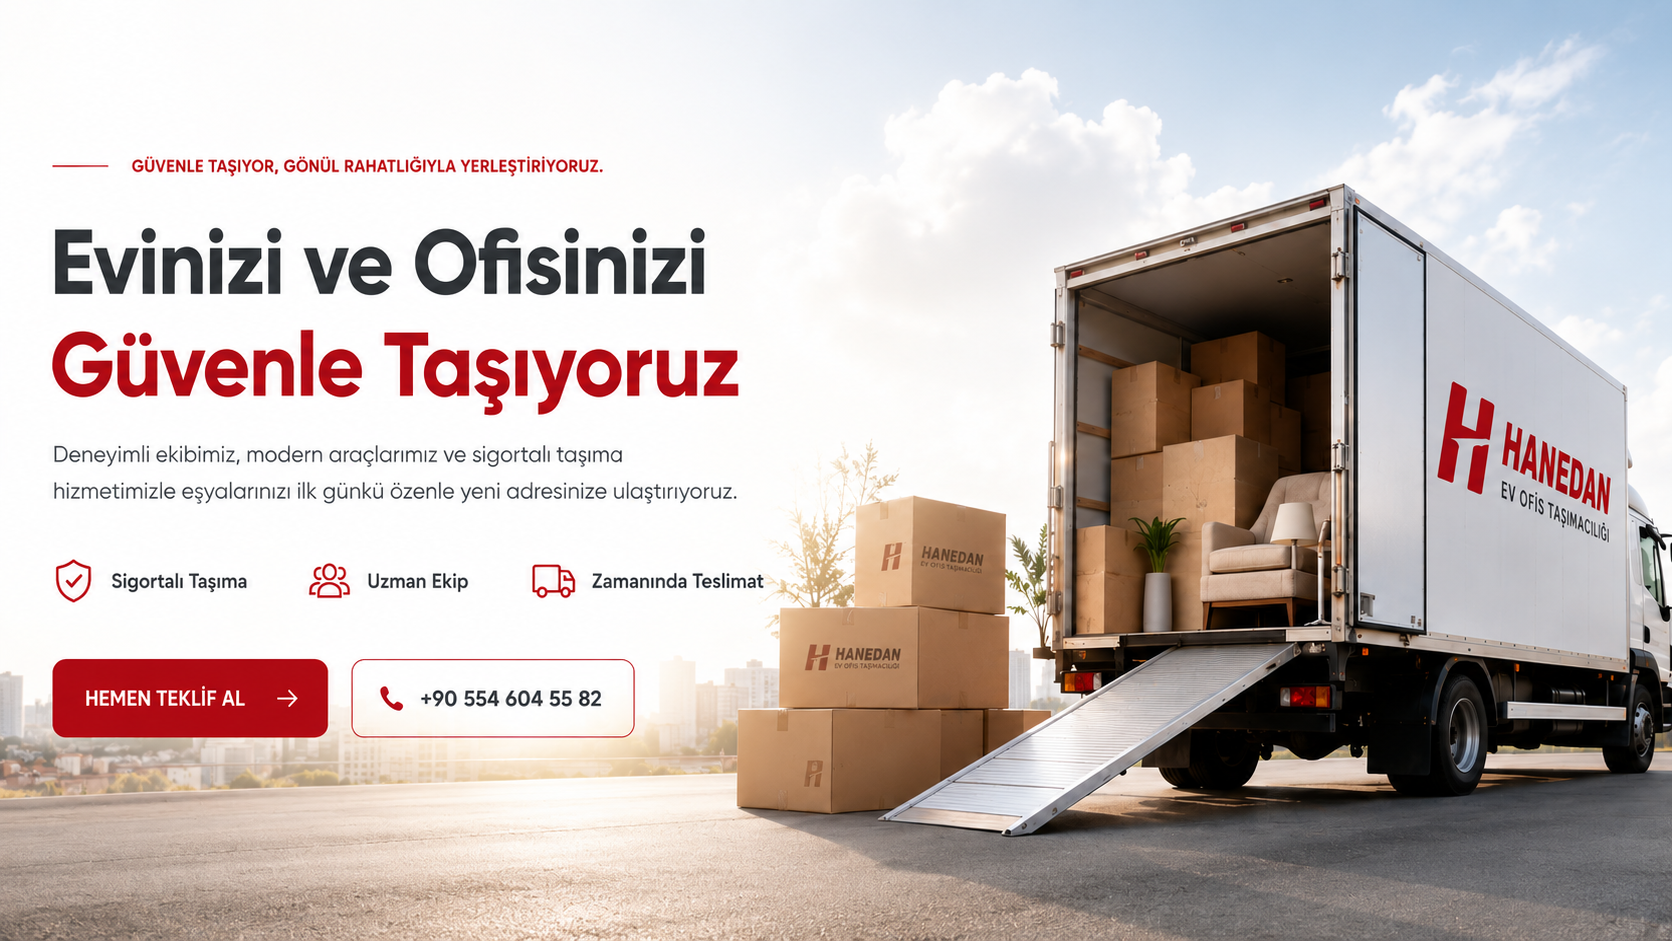
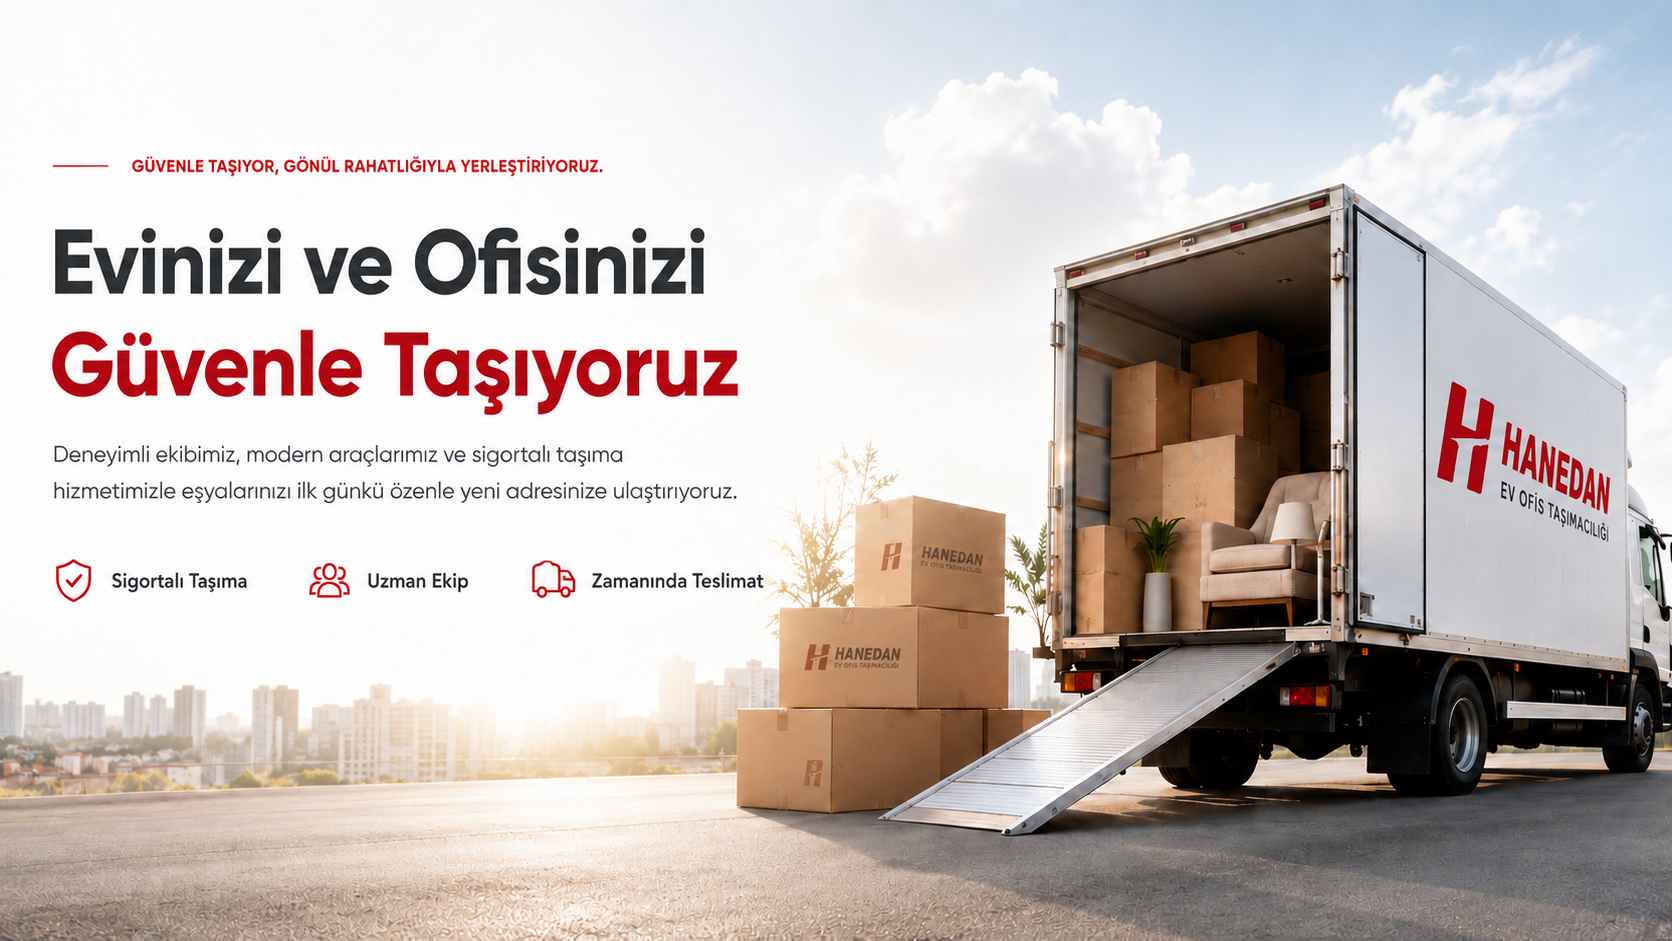
Update website files

diff --git a/generate-site.js b/generate-site.js
@@ -535,6 +535,13 @@ function homePage() {
     ${heroSlidesMarkup}
     <div class="hero-dots" aria-label="Ana görsel seçimi">${heroSlides.map((_, index) => `<button type="button" class="${index === 0 ? "is-active" : ""}" aria-label="${index + 1}. görsele geç"></button>`).join("")}</div>
   </section>
+  <section class="hero-quick-actions" aria-label="Hızlı iletişim">
+    <div class="container">
+      <a class="btn btn-primary" href="${waLink("Merhaba, Kayseri Hanedan Nakliyat web sitesinden teklif almak istiyorum.")}" target="_blank" rel="noopener">Hemen Teklif Al</a>
+      <a class="btn btn-light phone-action" href="tel:${primaryTel}">${primaryPhone}</a>
+      <a class="btn btn-light phone-action" href="tel:${secondaryTel}">${secondaryPhone}</a>
+    </div>
+  </section>
 
   <section class="section services-showcase pattern-bg">
     <div class="container">
@@ -1027,7 +1034,7 @@ body.menu-open { overflow: hidden; }
 .hero picture, .hero picture img, .hero-overlay { position: absolute; inset: 0; width: 100%; height: 100%; }
 .hero picture img { object-fit: cover; object-position: center; }
 .hero-overlay { background: linear-gradient(90deg, rgba(0,0,0,.72), rgba(0,0,0,.34) 52%, rgba(0,0,0,.12)); }
-.hero-carousel { width: 100%; min-height: 0; height: auto; aspect-ratio: 1680 / 944; max-height: none; }
+.hero-carousel { width: 100%; min-height: 540px; height: clamp(540px, 34vw, 640px); max-height: 640px; }
 .hero-slide { position: absolute; inset: 0; display: grid; align-items: center; opacity: 0; visibility: hidden; transition: opacity .7s ease, visibility .7s ease; }
 .hero-slide.is-active { opacity: 1; visibility: visible; z-index: 1; }
 .hero-slide img { position: absolute; inset: 0; width: 100%; height: 100%; object-fit: cover; object-position: center; }
@@ -1037,6 +1044,11 @@ body.menu-open { overflow: hidden; }
 .hero-dots { position: absolute; left: 50%; bottom: 24px; z-index: 3; display: flex; gap: 10px; transform: translateX(-50%); }
 .hero-dots button { width: 12px; height: 12px; padding: 0; border-radius: 999px; border: 1px solid rgba(255,255,255,.75); background: rgba(255,255,255,.58); cursor: pointer; transition: .2s ease; }
 .hero-dots button.is-active { width: 34px; border-color: var(--red); background: var(--red); }
+.hero-quick-actions { background: #fff; padding: 18px 0; box-shadow: 0 10px 30px rgba(5, 21, 24, .08); }
+.hero-quick-actions .container { display: flex; flex-wrap: wrap; gap: 14px; align-items: center; }
+.hero-quick-actions .btn { min-width: 220px; min-height: 54px; }
+.hero-quick-actions .phone-action { color: var(--ink); border: 1px solid rgba(181,18,32,.28); background: #fff; box-shadow: 0 8px 22px rgba(5, 21, 24, .06); }
+.hero-quick-actions .phone-action:hover { color: var(--red); border-color: var(--red); transform: translateY(-2px); }
 .hero-label, .kicker { display: inline-flex; align-items: center; border-radius: 999px; background: var(--red); color: #fff; font-size: 13px; font-weight: 900; padding: 7px 17px; }
 .hero h1 { max-width: 760px; margin: 22px 0 16px; font-size: clamp(42px, 6vw, 76px); line-height: 1.02; letter-spacing: 0; overflow-wrap: break-word; }
 .hero p { max-width: 660px; font-size: 20px; color: rgba(255,255,255,.9); }
@@ -1217,7 +1229,7 @@ details p { padding: 0 24px 20px; margin: 0; color: var(--muted); }
   .brand { min-width: auto; }
   .brand-logo { width: 250px; }
   .hero { min-height: 720px; }
-  .hero-carousel { min-height: 560px; aspect-ratio: auto; max-height: none; }
+  .hero-carousel { min-height: 560px; height: 560px; aspect-ratio: auto; max-height: none; }
   .hero-slide { align-items: start; }
   .hero-slide.bare-slide img { object-position: top left; }
   .hero-overlay { background: linear-gradient(90deg, rgba(0,0,0,.78), rgba(0,0,0,.48)); }
@@ -1250,8 +1262,12 @@ details p { padding: 0 24px 20px; margin: 0; color: var(--muted); }
   .mobile-nav { padding: 18px 34px 44px; }
   .mobile-panel-logo img { width: 220px; }
   .hero { min-height: 460px; align-items: start; }
-  .hero-carousel { min-height: 460px; aspect-ratio: auto; }
+  .hero-carousel { min-height: 500px; height: 500px; aspect-ratio: auto; }
   .hero-slide.bare-slide img { object-position: top left; }
+  .hero-quick-actions { padding: 12px 0; }
+  .hero-quick-actions .container { display: grid; grid-template-columns: 1fr 1fr; gap: 8px; }
+  .hero-quick-actions .btn { min-width: 0; min-height: 44px; padding: 0 12px; font-size: 12px; }
+  .hero-quick-actions .btn-primary { grid-column: 1 / -1; }
   .hero-content { padding-top: 28px; max-width: 100%; }
   .hero-label { font-size: 12px; padding: 6px 14px; }
   .hero h1 { width: min(100%, 350px); max-width: 100%; margin: 18px 0 10px; padding: 10px 12px; background: rgba(0,0,0,.62); font-size: 25px; line-height: 1.18; white-space: normal; overflow-wrap: anywhere; word-break: normal; }

diff --git a/assets/css/styles.css b/assets/css/styles.css
@@ -85,7 +85,7 @@ body.menu-open { overflow: hidden; }
 .hero picture, .hero picture img, .hero-overlay { position: absolute; inset: 0; width: 100%; height: 100%; }
 .hero picture img { object-fit: cover; object-position: center; }
 .hero-overlay { background: linear-gradient(90deg, rgba(0,0,0,.72), rgba(0,0,0,.34) 52%, rgba(0,0,0,.12)); }
-.hero-carousel { width: 100%; min-height: 0; height: auto; aspect-ratio: 1680 / 944; max-height: none; }
+.hero-carousel { width: 100%; min-height: 540px; height: clamp(540px, 34vw, 640px); max-height: 640px; }
 .hero-slide { position: absolute; inset: 0; display: grid; align-items: center; opacity: 0; visibility: hidden; transition: opacity .7s ease, visibility .7s ease; }
 .hero-slide.is-active { opacity: 1; visibility: visible; z-index: 1; }
 .hero-slide img { position: absolute; inset: 0; width: 100%; height: 100%; object-fit: cover; object-position: center; }
@@ -95,6 +95,11 @@ body.menu-open { overflow: hidden; }
 .hero-dots { position: absolute; left: 50%; bottom: 24px; z-index: 3; display: flex; gap: 10px; transform: translateX(-50%); }
 .hero-dots button { width: 12px; height: 12px; padding: 0; border-radius: 999px; border: 1px solid rgba(255,255,255,.75); background: rgba(255,255,255,.58); cursor: pointer; transition: .2s ease; }
 .hero-dots button.is-active { width: 34px; border-color: var(--red); background: var(--red); }
+.hero-quick-actions { background: #fff; padding: 18px 0; box-shadow: 0 10px 30px rgba(5, 21, 24, .08); }
+.hero-quick-actions .container { display: flex; flex-wrap: wrap; gap: 14px; align-items: center; }
+.hero-quick-actions .btn { min-width: 220px; min-height: 54px; }
+.hero-quick-actions .phone-action { color: var(--ink); border: 1px solid rgba(181,18,32,.28); background: #fff; box-shadow: 0 8px 22px rgba(5, 21, 24, .06); }
+.hero-quick-actions .phone-action:hover { color: var(--red); border-color: var(--red); transform: translateY(-2px); }
 .hero-label, .kicker { display: inline-flex; align-items: center; border-radius: 999px; background: var(--red); color: #fff; font-size: 13px; font-weight: 900; padding: 7px 17px; }
 .hero h1 { max-width: 760px; margin: 22px 0 16px; font-size: clamp(42px, 6vw, 76px); line-height: 1.02; letter-spacing: 0; overflow-wrap: break-word; }
 .hero p { max-width: 660px; font-size: 20px; color: rgba(255,255,255,.9); }
@@ -275,7 +280,7 @@ details p { padding: 0 24px 20px; margin: 0; color: var(--muted); }
   .brand { min-width: auto; }
   .brand-logo { width: 250px; }
   .hero { min-height: 720px; }
-  .hero-carousel { min-height: 560px; aspect-ratio: auto; max-height: none; }
+  .hero-carousel { min-height: 560px; height: 560px; aspect-ratio: auto; max-height: none; }
   .hero-slide { align-items: start; }
   .hero-slide.bare-slide img { object-position: top left; }
   .hero-overlay { background: linear-gradient(90deg, rgba(0,0,0,.78), rgba(0,0,0,.48)); }
@@ -308,8 +313,12 @@ details p { padding: 0 24px 20px; margin: 0; color: var(--muted); }
   .mobile-nav { padding: 18px 34px 44px; }
   .mobile-panel-logo img { width: 220px; }
   .hero { min-height: 460px; align-items: start; }
-  .hero-carousel { min-height: 460px; aspect-ratio: auto; }
+  .hero-carousel { min-height: 500px; height: 500px; aspect-ratio: auto; }
   .hero-slide.bare-slide img { object-position: top left; }
+  .hero-quick-actions { padding: 12px 0; }
+  .hero-quick-actions .container { display: grid; grid-template-columns: 1fr 1fr; gap: 8px; }
+  .hero-quick-actions .btn { min-width: 0; min-height: 44px; padding: 0 12px; font-size: 12px; }
+  .hero-quick-actions .btn-primary { grid-column: 1 / -1; }
   .hero-content { padding-top: 28px; max-width: 100%; }
   .hero-label { font-size: 12px; padding: 6px 14px; }
   .hero h1 { width: min(100%, 350px); max-width: 100%; margin: 18px 0 10px; padding: 10px 12px; background: rgba(0,0,0,.62); font-size: 25px; line-height: 1.18; white-space: normal; overflow-wrap: anywhere; word-break: normal; }

diff --git a/index.html b/index.html
@@ -112,6 +112,13 @@
     </article>
     <div class="hero-dots" aria-label="Ana görsel seçimi"><button type="button" class="is-active" aria-label="1. görsele geç"></button><button type="button" class="" aria-label="2. görsele geç"></button><button type="button" class="" aria-label="3. görsele geç"></button><button type="button" class="" aria-label="4. görsele geç"></button></div>
   </section>
+  <section class="hero-quick-actions" aria-label="Hızlı iletişim">
+    <div class="container">
+      <a class="btn btn-primary" href="https://wa.me/905337813804?text=Merhaba%2C%20Kayseri%20Hanedan%20Nakliyat%20web%20sitesinden%20teklif%20almak%20istiyorum." target="_blank" rel="noopener">Hemen Teklif Al</a>
+      <a class="btn btn-light phone-action" href="tel:+905337813804">+90 533 781 38 04</a>
+      <a class="btn btn-light phone-action" href="tel:+905546045582">+90 554 604 55 82</a>
+    </div>
+  </section>
 
   <section class="section services-showcase pattern-bg">
     <div class="container">